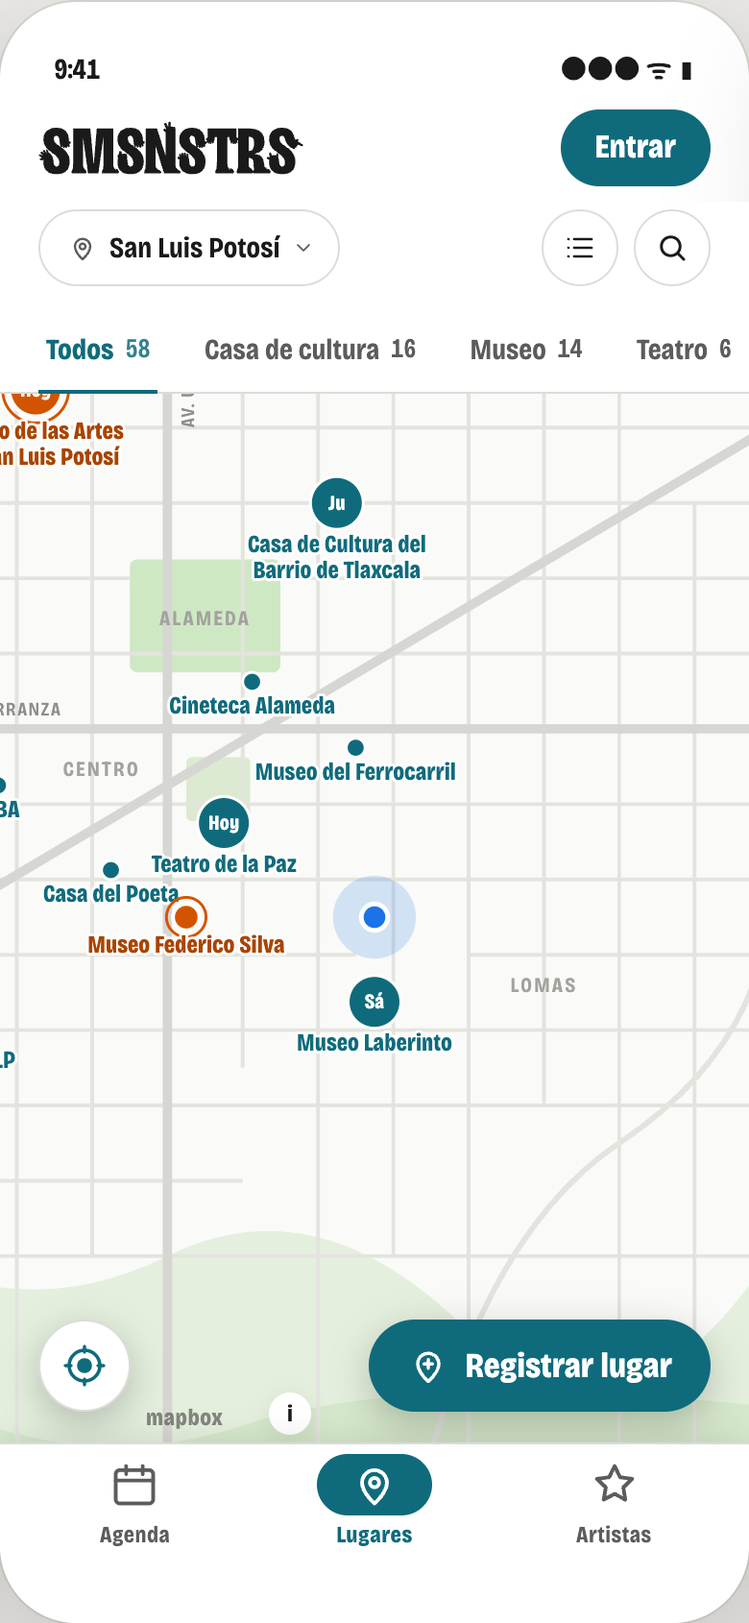
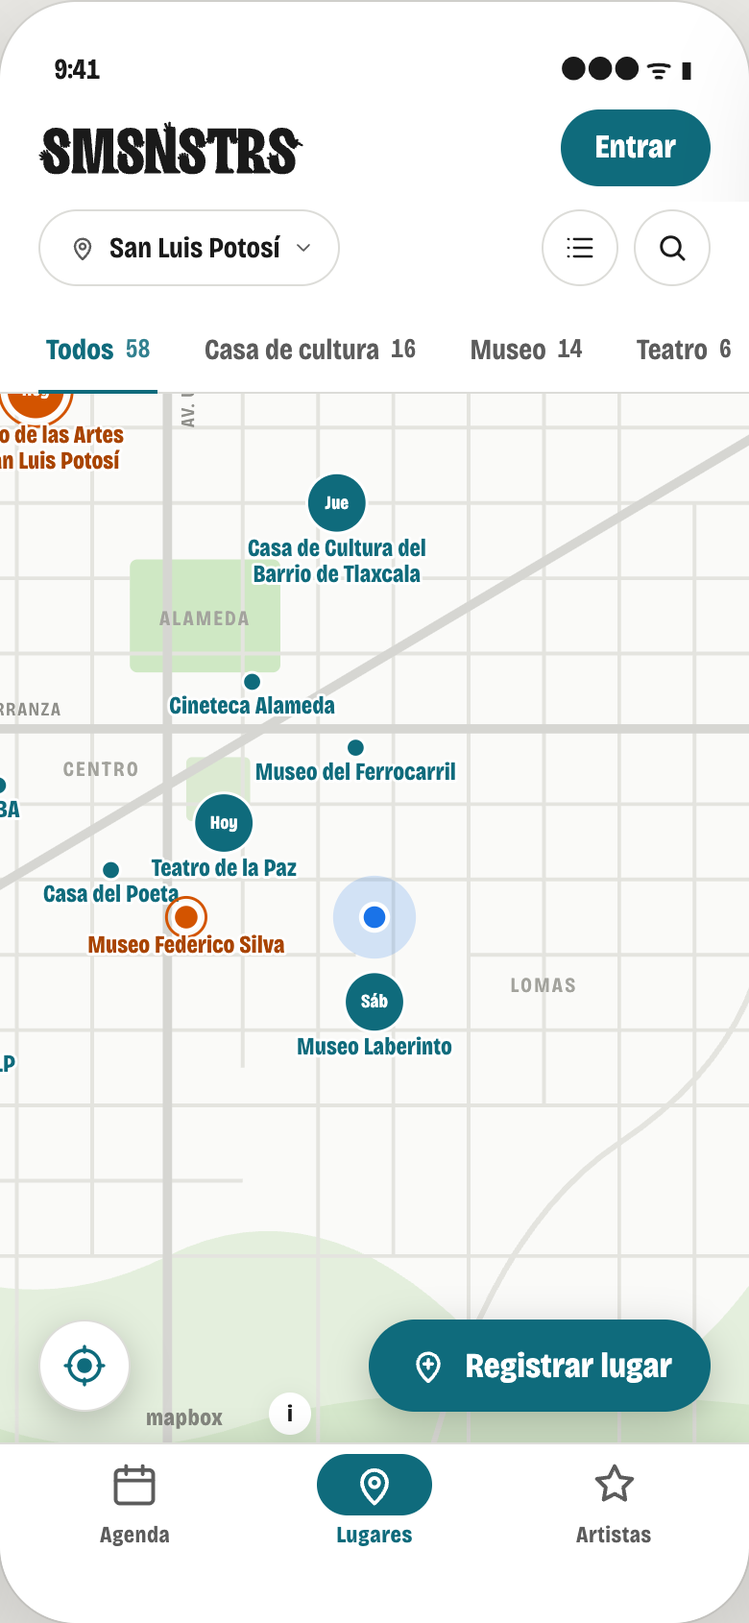
OL-124 · Mapa de lugares: correcciones del founder (días, L8/Cercanos, botón de ubicación)
Tres cambios pedidos por el founder al ver el prototipo (PR #155): días en
tres letras con acento (Jue, Vie, Sáb, no dos), L8 y "Cercanos" pasan de
recomendación a decisión, y el botón de ubicación deja de retirarse con la
hoja abierta: ahora sube justo encima, midiendo su altura real, para que
nunca quede tapado. Doc 35, prototipo y las cuatro capturas actualizados;
bitácora 159 al día. Sin tocar src/.

diff --git a/docs/rediseno/prototipos/mapa-lugares.html b/docs/rediseno/prototipos/mapa-lugares.html
@@ -89,7 +89,7 @@
   /* El lugar: punto, o círculo con el día; el nombre debajo con halo blanco (así lo pinta Mapbox) */
   .lugar { cursor: pointer; }
   .lugar circle { fill: var(--primario); stroke: var(--fondo); stroke-width: 1.5; transition: r 150ms; }
-  .lugar .dia { fill: var(--primario-texto); font-size: 11px; font-weight: 700; font-variation-settings: var(--ancho-titulo); text-anchor: middle; dominant-baseline: central; pointer-events: none; letter-spacing: 0.01em; }
+  .lugar .dia { fill: var(--primario-texto); font-size: 10px; font-weight: 700; font-variation-settings: var(--ancho-titulo); text-anchor: middle; dominant-baseline: central; pointer-events: none; letter-spacing: 0; }
   .lugar .nombre { fill: var(--primario); font-size: 13px; font-weight: 700; font-variation-settings: var(--ancho-titulo); text-anchor: middle; paint-order: stroke; stroke: var(--fondo); stroke-width: 3; stroke-linejoin: round; pointer-events: none; }
   .lugar.destacado circle { fill: var(--destacado); stroke-width: 2; }
   .lugar.destacado .borde { fill: none; stroke: var(--destacado); stroke-width: 1.5; }
@@ -100,8 +100,10 @@
   .yo { fill: #1a73e8; stroke: #fff; stroke-width: 2.5; }
   .telefono:not([data-ubicacion]) .persona { display: none; }
 
-  /* Botón de ubicación: abajo a la izquierda, el mismo botón que el ↑ de los listados */
-  .ubicacion { position: absolute; left: var(--gutter); bottom: 16px; z-index: 3; display: grid; place-items: center; width: var(--toque); height: var(--toque); border: 1px solid var(--borde); border-radius: 50%; background: var(--fondo); color: var(--texto); box-shadow: var(--sombra-flotante); cursor: pointer; -webkit-tap-highlight-color: transparent; }
+  /* Botón de ubicación: abajo a la izquierda, el mismo botón que el ↑ de los listados. Con la hoja del pin abierta
+     sube por encima de ella (nunca se tapa: el founder lo pidió explícitamente el 2026-09-22); `--sube` lo mide el
+     script con la altura real de la hoja. */
+  .ubicacion { position: absolute; left: var(--gutter); bottom: calc(16px + var(--sube, 0px)); z-index: 5; display: grid; place-items: center; width: var(--toque); height: var(--toque); border: 1px solid var(--borde); border-radius: 50%; background: var(--fondo); color: var(--texto); box-shadow: var(--sombra-flotante); cursor: pointer; -webkit-tap-highlight-color: transparent; transition: bottom 200ms ease; }
   .telefono[data-ubicacion] .ubicacion { color: var(--primario); }
   .telefono[data-ubicacion] .ubicacion .centro { fill: currentColor; }
   /* Publicar: abajo a la derecha, como hoy */
@@ -113,7 +115,8 @@
   /* La tarjeta del lugar tocado: una hoja corta pegada abajo; con ella abierta, los botones se retiran */
   .tarjeta { position: absolute; left: 0; right: 0; bottom: 0; z-index: 4; display: grid; grid-template-columns: auto minmax(0, 1fr); grid-template-areas: "foto titulo" "foto meta" "ver ver"; column-gap: 12px; row-gap: 4px; padding: 16px var(--gutter) 16px; border-radius: var(--radio-grande) var(--radio-grande) 0 0; background: var(--fondo); box-shadow: var(--sombra-panel); }
   .telefono:not([data-elegido]) .tarjeta { display: none; }
-  .telefono[data-elegido] .ubicacion, .telefono[data-elegido] .publicar { display: none; }
+  /* Solo Registrar se retira; el botón de ubicación se queda, corrido arriba de la hoja (ver .ubicacion) */
+  .telefono[data-elegido] .publicar { display: none; }
   .tarjeta img { grid-area: foto; width: 64px; height: 64px; border-radius: 10px; background: var(--fondo-miniatura); align-self: start; }
   .tarjeta .titulo { grid-area: titulo; font-size: var(--letra-xl); font-weight: 700; font-variation-settings: var(--ancho-titulo); line-height: 1.15; min-width: 0; text-wrap: balance; }
   .tarjeta .meta { grid-area: meta; display: grid; gap: 2px; color: var(--texto-suave); font-size: var(--letra-sm); min-width: 0; }
@@ -222,26 +225,27 @@
 <div class="estudio">
   <div class="rotulo">
     <strong>Mapa de lugares · OL-124</strong>
-    Tres estados de la misma pantalla. El mapa está dibujado a mano (sin Mapbox ni token); los pines, el botón de ubicación y la tarjeta son los que se proponen. Tocar un pin abre su tarjeta, tocar el mapa la cierra, el botón de abajo a la izquierda pone o quita la ubicación. Las pestañas van sin «Cercanos»: en el mapa, esa decisión es del botón.
+    Tres estados de la misma pantalla, con las decisiones del founder del 2026-09-22 ya aplicadas: días de tres letras con acento y el botón de ubicación visible en los tres estados (nunca tapado). El mapa está dibujado a mano (sin Mapbox ni token); los pines, el botón de ubicación y la tarjeta son los que se proponen. Tocar un pin abre su tarjeta, tocar el mapa la cierra, el botón de abajo a la izquierda pone o quita la ubicación. Las pestañas van sin «Cercanos»: en el mapa, esa decisión es del botón (decidido).
   </div>
 </div>
 
 <script>
   // Lugares de ejemplo (nombres reales del catálogo; posiciones inventadas sobre el mapa dibujado).
-  // dia: "Hoy" o el día en dos letras cuando tiene evento en los próximos 7 días; null si no.
+  // dia: "Hoy" o el día en tres letras con acento (Lun, Mar, Mié, Jue, Vie, Sáb, Dom, decisión del founder
+  // 2026-09-22) cuando el lugar tiene evento en los próximos 7 días; null si no.
   const LUGARES = [
     { id: "artes", x: 250, y: 240, nombre: ["Centro de las Artes", "de San Luis Potosí"], tipo: "Centro cultural", destacado: true, dia: "Hoy", evento: "Muestra de danza contemporánea", cuando: "Hoy · 19:00" },
     { id: "paz", x: 350, y: 470, nombre: ["Teatro de la Paz"], tipo: "Teatro", destacado: false, dia: "Hoy", evento: "Orquesta Sinfónica de SLP", cuando: "Hoy · 20:00" },
-    { id: "tlaxcala", x: 410, y: 300, nombre: ["Casa de Cultura del", "Barrio de Tlaxcala"], tipo: "Casa de cultura", destacado: false, dia: "Ju", evento: "Taller de grabado", cuando: "jue 24 sep · 17:00" },
+    { id: "tlaxcala", x: 410, y: 300, nombre: ["Casa de Cultura del", "Barrio de Tlaxcala"], tipo: "Casa de cultura", destacado: false, dia: "Jue", evento: "Taller de grabado", cuando: "jue 24 sep · 17:00" },
     { id: "silva", x: 330, y: 520, nombre: ["Museo Federico Silva"], tipo: "Museo", destacado: true, dia: null, evento: null, cuando: null },
-    { id: "muni", x: 190, y: 560, nombre: ["MUNI Museo", "Universitario UASLP"], tipo: "Museo", destacado: false, dia: "Vi", evento: "Inauguración: Materia y luz", cuando: "vie 25 sep · 18:30" },
-    { id: "laberinto", x: 430, y: 565, nombre: ["Museo Laberinto"], tipo: "Museo", destacado: false, dia: "Sá", evento: "Noche de estrellas", cuando: "sáb 26 sep · 19:00" },
+    { id: "muni", x: 190, y: 560, nombre: ["MUNI Museo", "Universitario UASLP"], tipo: "Museo", destacado: false, dia: "Vie", evento: "Inauguración: Materia y luz", cuando: "vie 25 sep · 18:30" },
+    { id: "laberinto", x: 430, y: 565, nombre: ["Museo Laberinto"], tipo: "Museo", destacado: false, dia: "Sáb", evento: "Noche de estrellas", cuando: "sáb 26 sep · 19:00" },
     { id: "cineteca", x: 365, y: 395, nombre: ["Cineteca Alameda"], tipo: "Cine", destacado: false, dia: null, evento: null, cuando: null },
     { id: "poeta", x: 290, y: 495, nombre: ["Casa del Poeta"], tipo: "Casa de cultura", destacado: false, dia: null, evento: null, cuando: null },
     { id: "ferrocarril", x: 420, y: 430, nombre: ["Museo del Ferrocarril"], tipo: "Museo", destacado: false, dia: null, evento: null, cuando: null },
     { id: "soledad", x: 600, y: 180, nombre: ["Casa de la Cultura", "de Soledad"], tipo: "Casa de cultura", destacado: false, dia: null, evento: null, cuando: null },
     { id: "ipba", x: 230, y: 450, nombre: ["IPBA"], tipo: "Escuela", destacado: false, dia: null, evento: null, cuando: null },
-    { id: "ccub", x: 230, y: 165, nombre: ["Centro Cultural", "Universitario Bicentenario"], tipo: "Centro cultural", destacado: false, dia: "Mi", evento: "Concierto de cámara", cuando: "mié 23 sep · 19:00" },
+    { id: "ccub", x: 230, y: 165, nombre: ["Centro Cultural", "Universitario Bicentenario"], tipo: "Centro cultural", destacado: false, dia: "Mié", evento: "Concierto de cámara", cuando: "mié 23 sep · 19:00" },
   ];
   // Dónde está la persona en el estado «con ubicación» (coordenadas del mapa dibujado).
   const PERSONA = { x: 430, y: 520 };
@@ -261,7 +265,7 @@
     const orden = [...LUGARES].sort((a, b) => (a.destacado - b.destacado) || ((a.dia ? 1 : 0) - (b.dia ? 1 : 0)));
     for (const l of orden) {
       const g = svg("g", { class: `lugar${l.destacado ? " destacado" : ""}`, "data-id": l.id, transform: `translate(${l.x} ${l.y})` });
-      const r = l.dia ? 14 : l.destacado ? 7 : 5;
+      const r = l.dia ? 16 : l.destacado ? 7 : 5; // 16: los tres caracteres de "Sáb"/"Hoy" caben sin achicar la letra
       if (l.destacado) g.appendChild(svg("circle", { class: "borde", r: r + 3.5 }));
       g.appendChild(svg("circle", { class: "punto", r }));
       if (l.dia) g.appendChild(svg("text", { class: "dia" }, l.dia));
@@ -279,9 +283,22 @@
     persona.setAttribute("transform", `translate(${PERSONA.x} ${PERSONA.y})`);
     pintarLugares(tel.querySelector(".lugares"));
 
+    // El botón de ubicación nunca se tapa (el founder, 2026-09-22): con la hoja abierta, sube justo encima de
+    // ella. `--sube` se mide de verdad (getBoundingClientRect), no se supone un alto fijo: la hoja cambia de
+    // tamaño según el lugar (con o sin evento, destacado o no).
+    function subirBoton() {
+      const hoja = tel.querySelector(".tarjeta");
+      const alto = "elegido" in tel.dataset ? hoja.getBoundingClientRect().height : 0;
+      tel.style.setProperty("--sube", `${alto}px`);
+    }
+
     function elegir(id) {
       tel.querySelectorAll(".lugar").forEach((g) => g.classList.toggle("elegido", g.dataset.id === id));
-      if (!id) { delete tel.dataset.elegido; return; }
+      if (!id) {
+        delete tel.dataset.elegido;
+        subirBoton();
+        return;
+      }
       const l = LUGARES.find((x) => x.id === id);
       tel.dataset.elegido = id;
       tel.querySelector(".titulo").textContent = l.nombre.join(" ");
@@ -293,6 +310,7 @@
       cuando.innerHTML = '<svg width="15" height="15" viewBox="0 0 24 24" fill="none" stroke="currentColor" stroke-width="1.8" stroke-linecap="round" stroke-linejoin="round"><rect x="3" y="5" width="18" height="16" rx="2"/><path d="M3 10h18M8 3v4M16 3v4"/></svg>';
       cuando.appendChild(l.evento ? Object.assign(document.createElement("b"), { textContent: `${l.cuando} · ${l.evento}` }) : document.createTextNode("Sin eventos próximos"));
       meta.appendChild(cuando);
+      requestAnimationFrame(subirBoton);
     }
     function ubicar(si) {
       if (si) tel.dataset.ubicacion = ""; else delete tel.dataset.ubicacion;
@@ -309,17 +327,17 @@
     ubicar(estado === "con-ubicacion" || estado === "pin-tocado");
     if (elegido) elegir(elegido);
     tel.dataset.estado = estado;
-    return tel;
+    return { tel, subirBoton };
   }
 
   const estudio = document.querySelector(".estudio");
   const ESTADOS = [
-    ["sin-ubicacion", null, "Sin ubicación", "Al abrir: el encuadre muestra los lugares con evento esta semana y los destacados. Hoy en rojo-naranja (destacado) o azul; el día en dos letras; los demás, un punto."],
+    ["sin-ubicacion", null, "Sin ubicación", "Al abrir: el encuadre muestra los lugares con evento esta semana y los destacados. Hoy y los días en tres letras con acento (Jue, Vie…); los demás, un punto."],
     ["con-ubicacion", null, "Con ubicación", "Tras tocar el botón: el mapa se centra en la persona (punto azul) y el botón toma el color de acción. Volver a tocarlo recentra."],
-    ["pin-tocado", "paz", "Pin tocado", "Una hoja corta con el nombre, el próximo evento y «Ver ficha». Los botones se retiran mientras está abierta; tocar el mapa la cierra."],
+    ["pin-tocado", "paz", "Pin tocado", "Una hoja corta con el nombre, el próximo evento y «Ver ficha». Registrar se retira; el botón de ubicación sube y se queda visible encima de la hoja."],
   ];
   for (const [estado, elegido, titulo, texto] of ESTADOS) {
-    const tel = montar(estado, elegido);
+    const { tel, subirBoton } = montar(estado, elegido);
     const pie = document.createElement("p");
     pie.className = "pie";
     pie.innerHTML = `<b>${titulo}</b> · ${texto}`;
@@ -327,6 +345,9 @@
     caja.appendChild(tel);
     caja.appendChild(pie);
     estudio.appendChild(caja);
+    // Recién insertado en el documento: ahora sí hay layout que medir (antes, con `elegir` llamado en `montar`,
+    // el nodo no estaba en el DOM y la hoja medía 0).
+    subirBoton();
   }
 </script>
 </body>

diff --git a/docs/rediseno/35-mapa-de-lugares.md b/docs/rediseno/35-mapa-de-lugares.md
@@ -2,6 +2,15 @@
 
 **Estado:** prototipo para firmar (sin código). · **OL:** OL-124 · **Bitácora:** [159](../bitacora/2026/09/159-mapa-lugares-prototipo.md) · **Pieza:** B1 de la [cola](../ops/COLA_DE_PIEZAS.md). · **Prototipo:** [`prototipos/mapa-lugares.html`](prototipos/mapa-lugares.html) (se abre en el navegador, sin servidor ni llaves).
 
+## Decisiones del founder al ver el prototipo (2026-09-22)
+
+Tras ver la primera entrega, el founder dijo, en el chat del gestor:
+
+1. «Me gusta el prototipo de mapa.»
+2. Los días del pin van con **tres letras y acento, como «Hoy»**: «Jue», «Vie», «Sáb» — no «Ju»/«Vi»/«Sá». Aplicado en todo este documento y en el prototipo.
+3. De acuerdo con las dos recomendaciones de la primera entrega: **L8 decidido — la sección sigue llamándose «Lugares»**; y **«Cercanos» sale de las pestañas del mapa** (se queda en Lista).
+4. «No has agregado botón de ubicación en mapa»: el botón ya estaba en los tres estados, pero en «pin tocado» la hoja lo tapaba. Corregido: ver «El botón de ubicación» más abajo.
+
 ## De dónde sale
 
 La lista del founder del 2026-09-21, tal cual:
@@ -9,7 +18,7 @@ La lista del founder del 2026-09-21, tal cual:
 - **L7.** «Agregar botón de ubicación actual y encuadre en mapa de lugares».
 - **L11.** «Distinguir lugares con eventos pronto, considerar poner Hoy o "22" (fecha con formato calendario) del evento en el pin».
 - **L31.** «En el mapa se resaltarán lugares destacados y con eventos esta semana, recordar volver a poner el botón de ubicación actual. Se puede usar el extremo inferior izquierdo similar a posición de back to top de listados para mantener consistencia».
-- **L8.** «Considerar cambio de nombre de lugares a mapa». Es decisión del founder; al final va una recomendación.
+- **L8.** «Considerar cambio de nombre de lugares a mapa». **Decidido el 2026-09-22:** la sección sigue llamándose «Lugares» (ver la sección L8 más abajo, con los argumentos que el founder confirmó).
 
 ## Qué se ve hoy
 
@@ -26,12 +35,12 @@ Captura real de somosnosotros.org/lugares tomada con Chrome a 390×844 el 2026-0
 ## Qué cambia
 
 1. **El encuadre al abrir** muestra lo que importa esta semana, no toda la ciudad.
-2. **Cada pin dice cuándo:** «Hoy» o el día en dos letras si el lugar tiene evento en los próximos siete días.
+2. **Cada pin dice cuándo:** «Hoy» o el día en tres letras con acento («Jue», «Vie»…) si el lugar tiene evento en los próximos siete días.
 3. **Los destacados llevan un aro** además del naranja que ya tienen.
-4. **Botón de ubicación abajo a la izquierda**, el mismo botón que el ↑ de los listados.
+4. **Botón de ubicación abajo a la izquierda**, el mismo botón que el ↑ de los listados, visible en todo momento (también con la hoja de un lugar abierta).
 5. **La tarjeta del pin es una hoja corta** con el nombre, el próximo evento y «Ver ficha».
 
-Y dos consecuencias que también decide el founder: «Cercanos» sale de las pestañas del mapa (el botón hace lo mismo) y la ⓘ de Mapbox se mueve junto a la marca.
+Y dos consecuencias, decididas por el founder el 2026-09-22: **«Cercanos» sale de las pestañas del mapa** (el botón hace lo mismo) y la ⓘ de Mapbox se mueve junto a la marca.
 
 ![Sin ubicación](capturas-35/prototipo-sin-ubicacion--390x844.png)
 
@@ -42,7 +51,7 @@ El mapa no filtra nada: todos los lugares siguen ahí al moverlo con el dedo. So
 - **Sin ubicación:** el mapa abarca los lugares con evento en los próximos siete días y los destacados. Si con eso quedan menos de tres, se completa con los lugares más cercanos al centro de la ciudad hasta llegar a seis. Nunca se acerca más que a la escala de barrio (la misma que hoy usa la búsqueda) ni se aleja más que la ciudad entera. Con cero lugares queda la ciudad, como hoy.
 - **Con ubicación:** la persona al centro (el punto azul de siempre) y el mapa se acerca hasta que quepan los cinco lugares más cercanos; con el mismo tope de cerca y de lejos. Mover el mapa con el dedo no quita el punto azul; volver a tocar el botón vuelve a centrar.
 - **Con un tipo elegido (Museo, Teatro…) o una búsqueda:** igual que hoy, se encuadra lo encontrado.
-- **«Esta semana» es la misma regla que en la agenda:** hoy y los seis días que siguen (`tramo` en `src/lib/fechas.ts`). Así ningún día de la semana se repite dentro de la ventana y las dos letras no dan lugar a duda.
+- **«Esta semana» es la misma regla que en la agenda:** hoy y los seis días que siguen (`tramo` en `src/lib/fechas.ts`). Así ningún día de la semana se repite dentro de la ventana y las tres letras no dan lugar a duda.
 
 ## Qué muestra cada pin
 
@@ -51,14 +60,16 @@ Los lugares siguen siendo capas del propio mapa (círculo y nombre), no elemento
 | Lugar | Pin | Nombre debajo |
 | --- | --- | --- |
 | Sin evento en siete días | Punto de 10 px del color de acción con línea blanca (como hoy) | Del color de acción |
-| Con evento en los próximos seis días | Círculo de 28 px con el día en dos letras en blanco y negrita: Lu, Ma, Mi, Ju, Vi, Sá, Do | Igual; gana el sitio a los puntos si chocan |
+| Con evento en los próximos seis días | Círculo de 32 px con el día en tres letras con acento, en blanco y negrita: Lun, Mar, Mié, Jue, Vie, Sáb, Dom (decisión del founder, 2026-09-22) | Igual; gana el sitio a los puntos si chocan |
 | Con evento hoy | El mismo círculo con «Hoy» | Igual |
 | Destacado | Naranja cempasúchil (decidido el 2026-09-16), 14 px, línea blanca de 2 px y un aro naranja alrededor (el «borde» de L31); encima de todos | Naranja oscuro; gana el sitio a todos |
 | Destacado con evento | El círculo naranja con «Hoy» o el día, con su aro | Igual |
 | El que tiene la tarjeta abierta | Crece un 30 % | Igual |
 | Privado (solo lo ve el administrador) | Gris, como hoy | Gris |
 
-Por qué el día en letras y no el número que proponía L11 («22»): con una ventana de siete días, «Ju» dice más que «24» (la persona piensa «el jueves», no «el 24»), cabe en el círculo sin achicar la letra, y «Hoy» queda como la única palabra, la que más importa. Mañana no lleva palabra propia: muestra su día, para que la regla sea una sola.
+Por qué el día en letras y no el número que proponía L11 («22»): con una ventana de siete días, «Jue» dice más que «24» (la persona piensa «el jueves», no «el 24»), y «Hoy» queda como la única palabra distinta, la que más importa. Mañana no lleva palabra propia: muestra su día, para que la regla sea una sola.
+
+**Por qué tres letras y no dos** (decisión del founder, 2026-09-22, sobre la primera entrega que proponía «Ju»/«Vi»/«Sá»): con dos letras, «Ma» y «Mi» quedan a una letra de distancia y piden mirar dos veces; con tres, «Mar» y «Mié» no se confunden y el acento hace el trabajo que antes hacía la memoria. El círculo crece de 28 a 32 px para que quepan sin achicar la letra (11 px → 10 px, el mínimo que sigue legible a esa escala); es el mismo tamaño para «Hoy» y para cualquier día, así que no hay dos reglas de ancho.
 
 Los nombres del mapa siguen en la letra del estilo de Mapbox (DIN Pro Bold), como hoy; el prototipo los dibuja con Bricolage porque no carga Mapbox.
 
@@ -73,7 +84,7 @@ Sale una **hoja corta** pegada abajo, de borde a borde, encima de la navegación
 - El próximo evento en una línea: «Hoy · 20:00 · Orquesta Sinfónica de SLP». Sin evento: «Sin eventos próximos».
 - Un solo botón, a lo ancho: **«Ver ficha»**. Una decisión por pantalla.
 
-Mientras la hoja está abierta, el botón de ubicación y «Registrar lugar» se retiran (hoy Registrar ya lo hace). Tocar el mapa la cierra; tocar otro pin la cambia. No apila historial: es la misma pantalla (filtrar no es navegar).
+Mientras la hoja está abierta, **«Registrar lugar» se retira** (hoy ya lo hace) **y el botón de ubicación sube justo encima de la hoja**, sin taparse nunca (el founder lo pidió explícitamente al ver la primera entrega: «no has agregado botón de ubicación en mapa» — estaba, pero la hoja lo cubría). Tocar el mapa la cierra; tocar otro pin la cambia. No apila historial: es la misma pantalla (filtrar no es navegar).
 
 Lo que cambia respecto a la tarjeta de hoy: ocupa el borde inferior en vez de flotar; dice el nombre del evento y no solo la fecha; y el botón es grande y va en la zona del pulgar, en vez del «Ver» chico a la derecha.
 
@@ -81,14 +92,16 @@ Lo que cambia respecto a la tarjeta de hoy: ocupa el borde inferior en vez de fl
 
 ![Con ubicación](capturas-35/prototipo-con-ubicacion--390x844.png)
 
-- **Dónde y cómo:** abajo a la izquierda, a 20 px del borde y a 16 px sobre la navegación. Es el mismo botón que el ↑ de los listados (`.volver` en `src/components/ui/Cabecera.module.css`): 48 px, redondo, blanco, con borde y la sombra flotante. Icono: la mira de ubicación que ya existe en la app (`IconoUbicacion`), en tinta.
+- **Dónde y cómo:** abajo a la izquierda, a 20 px del borde y a 16 px sobre la navegación. Es el mismo botón que el ↑ de los listados (`.volver` en `src/components/ui/Cabecera.module.css`): 48 px, redondo, blanco, con borde y la sombra flotante.
+- **Nunca se tapa.** Con la hoja de un lugar abierta, el botón sube justo por encima de su borde superior en vez de retirarse; la distancia que sube es la altura real de la hoja en ese momento (cambia según si el lugar tiene evento o es destacado), no un número fijo. Es la corrección que pidió el founder al ver la primera entrega. «Registrar lugar» sí se retira, como ya hace hoy: es una acción de alta, no de lectura del mapa, y no hace falta mientras se mira un lugar.
 - **Al tocarlo:** pide la ubicación al navegador (como hoy hace «Cercanos»), no la guarda y centra el mapa en la persona. Mientras llega, el icono late como los chips «en camino»; sin texto. Con ubicación, el icono pasa al color de acción con el centro relleno; volver a tocarlo vuelve a centrar.
 - **Si la persona la niega o falla:** el mismo aviso de hoy encima del mapa («No pudimos leer tu ubicación. Actívala para este sitio en los ajustes del teléfono») y el botón sigue ahí.
-- **Con la hoja del lugar abierta, se retira**, igual que Registrar.
 
-Dos consecuencias:
+**El icono.** Es la mira de ubicación que ya existe en la app (`IconoUbicacion`: un círculo con una cruz y el punto al centro), la misma que usan hoy los botones «Estoy aquí» de las hojas Dónde está (`src/app/lugares/HojaDonde.tsx`) y Dónde es (`src/app/eventos/HojaDondeEs.tsx`). Se mantiene por dos razones: es la única palabra visual que la app ya usa para «esto me ubica a mí» (ley de Jakob: quien ya la vio en una ficha la reconoce en el mapa sin aprender un icono nuevo) y es el símbolo estándar de «mi ubicación» en los mapas del teléfono (Google Maps, Apple Maps, el propio Mapbox lo usan igual). Se consideró la flecha de navegación que usa Apple Maps para «mostrar mi posición y mi rumbo» (un triángulo o una saeta), pero esa flecha en los mapas de iPhone significa además «hacia dónde miro», algo que esta app no muestra: usarla sin esa función confundiría más de lo que aclara. Con la ubicación activa, el icono pasa al color de acción con el punto central relleno — la misma señal que ya usan otros botones activos de la app (los chips, la píldora de la navegación).
 
-1. **«Cercanos» sale de las pestañas del mapa.** Con el botón, la pestaña sería un segundo mando para la misma decisión, y eso lo prohíbe la casa (progressive disclosure: «jamás dos accionables para la misma decisión»). En la **Lista**, «Cercanos» se queda, porque ahí ordena los renglones por distancia. Las pestañas de Mapa y Lista quedan distintas por un chip; el tipo elegido sigue compartido por la URL, como hoy. Si el founder prefiere que las dos vistas tengan pestañas idénticas, la alternativa es dejar «Cercanos» en el mapa haciendo exactamente lo mismo que el botón: funciona, pero son dos mandos. **Recomendación: quitarla del mapa.**
+Dos consecuencias, decididas por el founder el 2026-09-22:
+
+1. **«Cercanos» sale de las pestañas del mapa** (recomendación aceptada): con el botón, la pestaña sería un segundo mando para la misma decisión, y eso lo prohíbe la casa (progressive disclosure: «jamás dos accionables para la misma decisión»). En la **Lista**, «Cercanos» se queda, porque ahí ordena los renglones por distancia. Las pestañas de Mapa y Lista quedan distintas por un chip; el tipo elegido sigue compartido por la URL, como hoy.
 2. **La ⓘ y la marca de Mapbox** (la licencia pide que las dos se vean) se ponen juntas, abajo, entre el botón de ubicación y «Registrar lugar». Mapbox deja elegir su posición; hoy están en la esquina izquierda.
 
 ## Estados
@@ -98,16 +111,16 @@ Dos consecuencias:
 - **Error con salida:** sin token o sin mapa, el aviso de hoy; ubicación negada, el aviso con la salida a los ajustes.
 - **Éxito:** los tres estados del prototipo.
 
-## L8 · ¿«Mapa» o «Lugares»? Recomendación para el founder
+## L8 · ¿«Mapa» o «Lugares»? Decidido por el founder (2026-09-22)
 
-**Recomiendo seguir llamando «Lugares» a la sección**, por cuatro razones:
+**La sección sigue llamándose «Lugares».** El founder confirmó la recomendación de la primera entrega, con estos cuatro argumentos:
 
 1. **La pestaña nombra lo que la persona busca, no la herramienta.** Alguien quiere saber a dónde ir; el mapa es la forma de verlo. «El texto habla del mundo de la persona, nunca de la maquinaria» (UX invisible).
 2. **Lugares tiene dos vistas, y la lista no es un mapa.** «Mapa › Lista» se leería raro; «Lugares › Mapa · Lista» se lee solo.
 3. **El icono ya es un pin.** Dice «mapa» sin decirlo. La navegación queda Agenda · Lugares · Artistas: los tres tipos de ficha del grafo cultural (doc 24), en paralelo.
 4. **Convención.** Las apps que se llaman «Mapas» son mapas; la nuestra es un directorio que se ve en un mapa (ley de Jakob).
 
-A favor de «Mapa», con honestidad: con los pines diciendo «Hoy» y el día, el mapa se vuelve «la agenda sobre el mapa», y mucha gente dice «ver el mapa»; es una palabra más corta; y es idea del founder. Si lo elige, cambia una etiqueta en la navegación y el título de la pestaña del navegador; la búsqueda seguiría diciendo «Buscar un lugar». Es barato probarlo después. Si lo que se busca es que el mapa pese más, ya es la primera vista de la sección.
+Queda registrado, con honestidad, lo que se dijo a favor de «Mapa»: con los pines diciendo «Hoy» y el día, el mapa se vuelve «la agenda sobre el mapa», y mucha gente dice «ver el mapa»; es una palabra más corta. Si el founder cambia de opinión más adelante, el costo es bajo: una etiqueta en la navegación y el título de la pestaña del navegador; la búsqueda seguiría diciendo «Buscar un lugar».
 
 ## Lo que no cambia
 
@@ -120,12 +133,12 @@ El estilo claro y plano del mapa, los colores (acción y naranja), que la ubicac
 Capturas reales (Chrome de la Mac por `playwright-core`, `document.fonts.check('16px "Bricolage Grotesque"')` = true, 390×844 a doble densidad), en [`capturas-35/`](capturas-35/):
 
 - `produccion-mapa-hoy--390x844.png` — producción hoy: toda la ciudad de golpe, los puntos del centro apelotonados y encimados, un destacado naranja, la ⓘ de Mapbox abajo a la izquierda y ningún botón de ubicación.
-- `prototipo-sin-ubicacion--390x844.png` — al abrir: seis lugares con evento (dos «Hoy», uno naranja con aro; Mi, Ju, Vi, Sá), dos destacados con aro, puntos chicos para el resto, el botón de ubicación en tinta abajo a la izquierda y «mapbox ⓘ» entre los dos botones.
-- `prototipo-con-ubicacion--390x844.png` — tras tocar el botón: el punto azul con halo al centro del mapa, los lugares cercanos alrededor (Teatro de la Paz «Hoy», Museo Laberinto «Sá», Museo Federico Silva naranja) y el botón en el color de acción.
-- `prototipo-pin-tocado--390x844.png` — Teatro de la Paz tocado: el pin «Hoy» crece, abajo la hoja con el símbolo SN, «Teatro de la Paz», «Teatro», «Hoy · 20:00 · Orquesta Sinfónica de SLP» y el botón «Ver ficha» a lo ancho; los botones flotantes retirados.
+- `prototipo-sin-ubicacion--390x844.png` — al abrir: seis lugares con evento (dos «Hoy», uno naranja con aro; «Mié», «Jue», «Vie», «Sáb»), dos destacados con aro, puntos chicos para el resto, el botón de ubicación en tinta abajo a la izquierda y «mapbox ⓘ» entre los dos botones.
+- `prototipo-con-ubicacion--390x844.png` — tras tocar el botón: el punto azul con halo al centro del mapa, los lugares cercanos alrededor (Teatro de la Paz «Hoy», Museo Laberinto «Sáb», Museo Federico Silva naranja) y el botón en el color de acción con el centro relleno.
+- `prototipo-pin-tocado--390x844.png` — Teatro de la Paz tocado: el pin «Hoy» crece, abajo la hoja con el símbolo SN, «Teatro de la Paz», «Teatro», «Hoy · 20:00 · Orquesta Sinfónica de SLP» y el botón «Ver ficha» a lo ancho; «Registrar lugar» se retiró y el botón de ubicación quedó visible, justo encima del borde superior de la hoja.
 
 ## Qué toca en el código cuando se firme (para el operador)
 
-- `src/components/Mapa.tsx`: el encuadre inicial (lugares de la semana y destacados; con ubicación, los cinco cercanos); en la capa de puntos, radio según `dia`; una capa de texto para «Hoy»/día dentro del círculo; el aro de los destacados; la ⓘ junto a la marca. La etiqueta del día se calcula en el servidor con la zona del evento (`ProximoEvento.zona`) y llega en las propiedades del punto.
-- `src/app/lugares/VistaLugares.tsx` y `lugares.module.css`: el botón de ubicación (reutiliza `pedirUbicacion`), la tarjeta como hoja, «Cercanos» solo en la vista Lista.
-- Sin migraciones ni variables nuevas. Pruebas focalizadas: la función que da «Hoy», «Ju» o nada según la fecha y la zona; la selección de lugares del encuadre; captura 390×844 de los tres estados en el iPhone del founder.
+- `src/components/Mapa.tsx`: el encuadre inicial (lugares de la semana y destacados; con ubicación, los cinco cercanos); en la capa de puntos, radio según `dia`; una capa de texto para «Hoy»/día (tres letras con acento) dentro del círculo; el aro de los destacados; la ⓘ junto a la marca. La etiqueta del día se calcula en el servidor con la zona del evento (`ProximoEvento.zona`) y llega en las propiedades del punto.
+- `src/app/lugares/VistaLugares.tsx` y `lugares.module.css`: el botón de ubicación (reutiliza `pedirUbicacion`), que debe medir la hoja abierta y subir por encima (el prototipo lo hace con `getBoundingClientRect`; en React puede ir por `ResizeObserver` o CSS con `anchor-name`, lo que dé el resultado más simple); la tarjeta como hoja; «Cercanos» solo en la vista Lista.
+- Sin migraciones ni variables nuevas. Pruebas focalizadas: la función que da «Hoy», «Jue» o nada según la fecha y la zona; la selección de lugares del encuadre; que el botón de ubicación no quede tapado por la hoja en ningún alto de contenido; captura 390×844 de los tres estados en el iPhone del founder.

diff --git a/docs/bitacora/2026/09/159-mapa-lugares-prototipo.md b/docs/bitacora/2026/09/159-mapa-lugares-prototipo.md
@@ -41,3 +41,26 @@ La pieza B1 de `docs/ops/COLA_DE_PIEZAS.md`: L7 (botón de ubicación actual y e
 
 - Firma del founder sobre el doc 35 y el prototipo; sus tres decisiones: «Cercanos» en el mapa, la ⓘ de Mapbox y L8.
 - Con la firma, la pieza de código (lo que toca está al final del doc 35).
+
+## Segunda entrega: correcciones del founder (2026-09-22)
+
+El gestor aceptó la primera entrega (`27e69c4`) y abrió el PR #155. El founder vio el prototipo y pidió cuatro cambios, en el chat del gestor:
+
+1. «Me gusta el prototipo de mapa.»
+2. Los días van con **tres letras y acento** («Jue», «Vie», «Sáb»), no dos («Ju», «Vi», «Sá»).
+3. De acuerdo con las dos recomendaciones: **L8 decidido** (sigue «Lugares») y **«Cercanos» fuera de las pestañas del mapa**.
+4. «No has agregado botón de ubicación en mapa»: el botón sí estaba en las tres capturas, pero en «pin tocado» la hoja lo tapaba por completo.
+
+### Qué se cambió
+
+- **`docs/rediseno/prototipos/mapa-lugares.html`:** los doce lugares de ejemplo pasan a `Jue`/`Vie`/`Sáb`/`Mié`; el círculo del pin con día crece de 28 a 32 px (10 px de letra) para que quepan las tres letras sin achicarla. El botón de ubicación deja de retirarse con la hoja abierta: ahora se mide la altura real de la hoja (`getBoundingClientRect`, no un número fijo) y el botón sube justo por encima con una transición corta; solo «Registrar lugar» sigue retirándose. Se subió también el `z-index` del botón para que quede siempre por encima.
+- **`docs/rediseno/35-mapa-de-lugares.md`:** sección nueva «Decisiones del founder al ver el prototipo» al principio; L7/L8/L31 marcadas con lo decidido; la tabla de pines, el párrafo de «por qué el día en letras» y las cuatro capturas actualizados a tres letras; la sección «El botón de ubicación» reescrita (nunca se tapa, con la explicación de por qué se eligió el icono de mira/diana — es el mismo `IconoUbicacion` que ya usan «Estoy aquí» en `HojaDonde` y `HojaDondeEs`, y se descartó la flecha de rumbo de Apple Maps porque esta app no muestra hacia dónde mira la persona); la sección L8 pasa de recomendación a decisión, con las mismas cuatro razones y la nota de lo dicho a favor de «Mapa»; «Qué toca en el código» anota cómo medir la hoja en React.
+- **Cuatro capturas re-tomadas** en `docs/rediseno/capturas-35/` con el mismo método (Chrome real vía `playwright-core`, `document.fonts.check` = true): confirmé en la de «pin tocado» que el botón de ubicación se ve completo, con su sombra, justo arriba del borde de la hoja; en las otras dos, los pines dicen «Jue», «Vie», «Mié», «Sáb» completos y legibles.
+
+### Evidencia
+
+Abrí las cuatro capturas nuevas antes de entregar. En `prototipo-pin-tocado--390x844.png` el botón de ubicación (tinta, sin ubicación activa en ese estado) queda visible completo sobre el borde blanco de la hoja, sin recorte ni superposición. En `prototipo-sin-ubicacion--390x844.png` y `prototipo-con-ubicacion--390x844.png` los seis pines con día muestran «Mié», «Jue», «Vie», «Sáb» sin abreviar más allá de las tres letras acordadas; en «con ubicación» el icono del botón está en el color de acción con el centro relleno.
+
+### Pendiente
+
+Firma del founder sobre esta segunda entrega. Con ella, la pieza de código.
